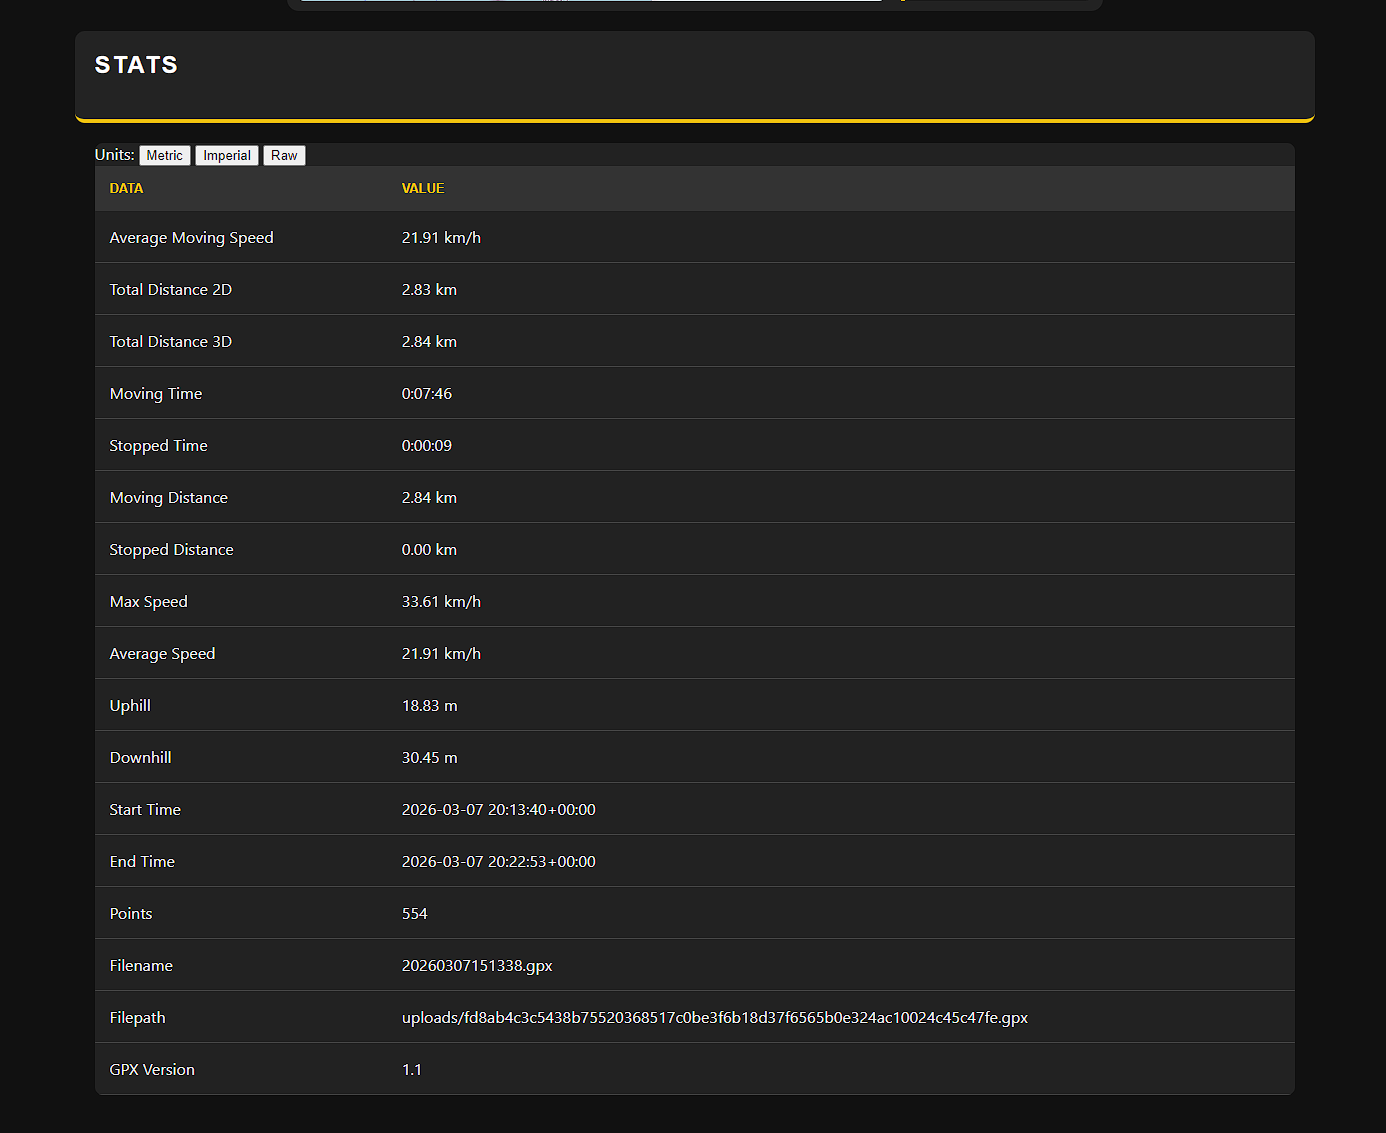
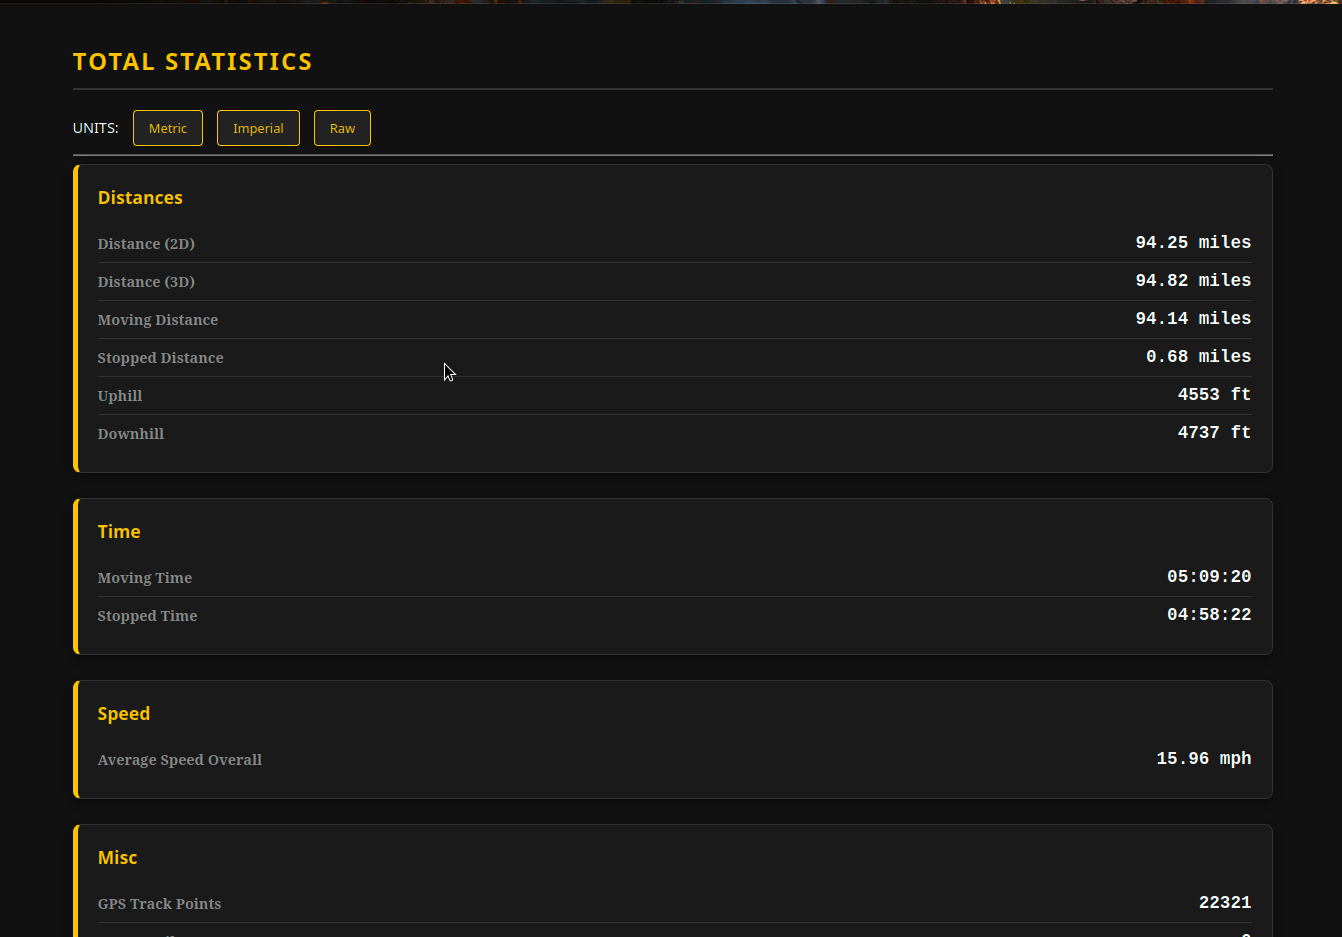
Add final screenshots

diff --git a/README.md b/README.md
@@ -115,13 +115,38 @@ Instructions on how to run are on Run Locally Section
 
 ![App Screenshot](screenshots/overview.png)
 
-## Total Statistics Table
+## Overview
+
+![App Screenshot](screenshots/overview.png)
+
+![App Screenshot](screenshots/overview2.png)
+
+![App Screenshot](screenshots/overview3.png)
+
+## Total Statistics 
+
 
 ![App Screenshot](screenshots/totaltable.png)
+
+## Leaderboard
+
+![App Screenshot](screenshots/leaderboard.png)
+
+## Track Comparison Feature
+
+![App Screenshot](screenshots/track_comparison.png)
+
+## Misc Screenshots
+
+![App Screenshot](screenshots/recent_stats1.png)
+
+![App Screenshot](screenshots/recent_stats2.png)
+
 
 ## Libraries Used
 
 * Leaflet.js https://leafletjs.com/
 * Flask https://flask.palletsprojects.com/
 * gpxpy https://github.com/tkrajina/gpxpy
-* PLACEHOLDER
+* Chart JS https://www.chartjs.org/
+* HTMX https://htmx.org/
